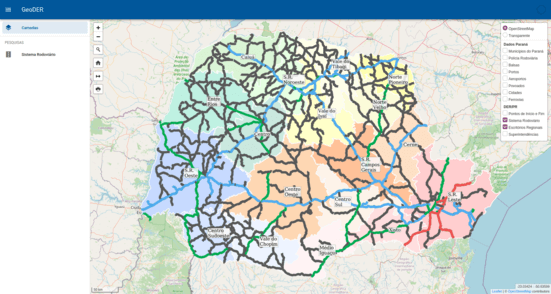
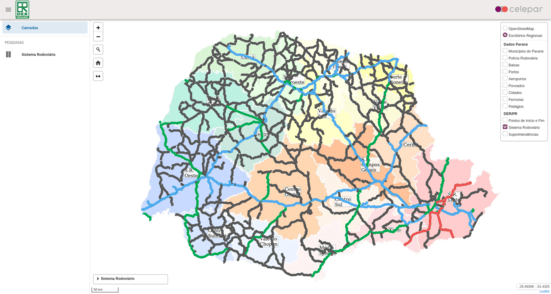
Add projects

diff --git a/src/components/Work2.js b/src/components/Work2.js
@@ -8,7 +8,10 @@ const Work2 = {
         >
           {{ category.name }}
         </v-tab>
-        <v-tab-item v-for="(category, i) in categories" :key="i">
+        <v-tab-item
+          v-for="(category, i) in categories"
+          :key="i"
+        >
           <v-container fluid>
             <v-row>
               <v-col
@@ -295,11 +298,38 @@ const Work2 = {
             href: 'http://www.paranaedificacoes.pr.gov.br/Pagina/Mapa-de-Obras',
             screenshot: 'assets/screenshots/mapa-de-obras.png'
           },
+
+          {
+            title: 'Mapas Rodoviários',
+            subtitle: 'DER',
+            href: 'http://www.der.pr.gov.br/Pagina/Mapas-Rodoviarios#',
+            screenshot: 'assets/screenshots/Mapas Rodoviários.png'
+          },
+
           {
             title: 'Mapas',
             subtitle: 'SEDU',
             href: 'http://www.desenvolvimentourbano.pr.gov.br/Pagina/Mapas',
             screenshot: 'assets/screenshots/mapas-sedu.png'
+          },
+          {
+            title: 'URS', // Unidades Regionais de Sanidade Agropecuária
+            subtitle: 'ADAPAR',
+            href: 'http://www.adapar.pr.gov.br/Pagina/Unidades-Regionais-de-Sanidade-Agropecuaria-URS',
+            screenshot: 'assets/screenshots/URS.png'
+          },
+
+          {
+            title: 'Operações Portuárias',
+            subtitle: 'Portos do Paraná',
+            href: 'http://www.portosdoparana.pr.gov.br/Operacional',
+            screenshot: 'assets/screenshots/Operações Portuárias.png'
+          },
+          {
+            title: 'SISPEHIS',
+            subtitle: 'COHAPAR',
+            href: 'https://www.sistemas.cohapar.pr.gov.br/PEHISPUBLICO/listaFormMunicipio.php',
+            screenshot: 'assets/screenshots/SISPEHIS.png'
           }
         ]
       }

diff --git a/src/components/Layers.js b/src/components/Layers.js
@@ -23,15 +23,17 @@ const Layers = {
       this.layers = L.control.layers({
         'OpenStreetMap': L.tileLayer('https://{s}.tile.openstreetmap.org/{z}/{x}/{y}.png', {
           attribution: '&copy; <a href="https://www.openstreetmap.org/copyright">OpenStreetMap</a> contributors'
-        }).addTo(this.map),
+        }),
+        'Gray Labels': L.esri.basemapLayer('GrayLabels'),
+        'Imagery': L.esri.basemapLayer('Imagery').addTo(this.map),
         'Topographic': L.esri.basemapLayer('Topographic'),
-        'ImageryClarity': L.esri.basemapLayer('ImageryClarity')
       }, {
+        'ImageryLabels': L.esri.basemapLayer('ImageryLabels').addTo(this.map),
         'Municípios do Paraná': L.tileLayer.wms(GEOSERVER, {
           layers: 'itcg:municipios_pol_p31982_e50',
           format: 'image/png',
           transparent: true
-        }).addTo(this.map),
+        }),
         'Áreas Urbanas': L.tileLayer.wms(GEOSERVER, {
           layers: 'sedu_paranacidade:areas_urbanas_pol_p31982',
           format: 'image/png',

diff --git a/src/components/Portfolio.js b/src/components/Portfolio.js
@@ -83,8 +83,8 @@ const Portfolio = {
       {
         title: 'Portal da Cultura',
         icon: 'mdi-drama-masks',
-        href: 'http://www.portalgeo.pr.gov.br/geocultura/#/',
-        subtitle: 'http://www.portalgeo.pr.gov.br/geocultura/#/'
+        href: 'http://cultura.mapas.pr.gov.br',
+        subtitle: 'http://cultura.mapas.pr.gov.br'
       },
       {
         title: 'Rede de Proteção à Criança e ao Adolescente',
